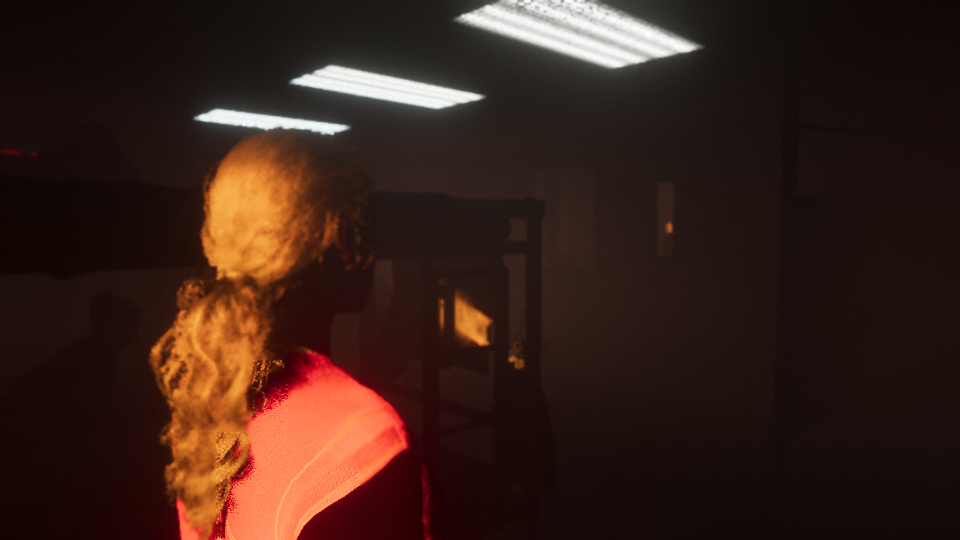
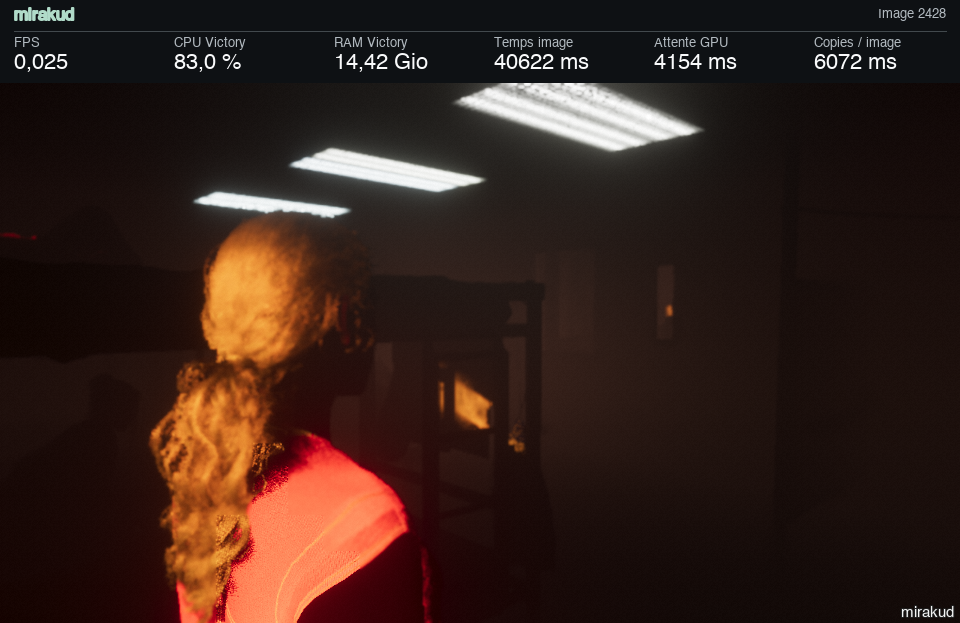
Afficher le HUD et le filigrane sur les captures finales du Mac

diff --git a/tools/macos/watermark.py b/tools/macos/watermark.py
@@ -1,40 +1,142 @@
-"""Create a PNG display copy with a small mirakud signature. Requires Pillow 10.1+."""
+"""Export a final PNG with the Victory HUD above the game and the mirakud signature (Pillow 10+)."""
 import argparse
+from datetime import datetime, timezone
+import json
+import math
 from pathlib import Path
+import re
+from tempfile import TemporaryDirectory
 
 from PIL import Image, ImageChops, ImageDraw, ImageFont
 
 
-def watermark(source, output):
-    if source.resolve() == output.resolve():
+METRICS = (
+    ("FPS", "fps"), ("CPU Victory", "cpu_percent"), ("RAM Victory", "ram_mib"),
+    ("Temps image", "frame_ms"), ("Attente GPU", "gpu_ms"), ("Copies / image", "copy_ms"),
+)
+
+
+def metric_text(key, value):
+    """Use the same French units and precision as Readings in victory_perf_hud.swift."""
+    if type(value) not in (int, float) or not math.isfinite(value) or value < 0:
+        return "—"
+    if key == "fps":
+        if value == 0:
+            return "0"
+        if value < 0.001:
+            return "< 0,001"
+        decimals, unit = (3 if value < 0.1 else 2 if value < 1 else 1), ""
+    elif key == "cpu_percent":
+        decimals, unit = int(value < 100), " %"
+    elif key == "ram_mib":
+        value, decimals, unit = value / 1024, 2, " Gio"
+    else:
+        decimals, unit = int(value < 100), " ms"
+    return f"{value:.{decimals}f}{unit}".replace(".", ",")
+
+
+def _font(size):
+    try:
+        return ImageFont.load_default(size=size)
+    except TypeError:
+        # Pillow 10.0 bundled a bitmap font with no size argument or em dash.
+        for face in ("Helvetica.ttc", "DejaVuSans.ttf", "LiberationSans-Regular.ttf", "arial.ttf"):
+            try:
+                return ImageFont.truetype(face, size)
+            except OSError:
+                continue
+        raise OSError("A scalable sans-serif font or Pillow 10.1+ is needed for the capture HUD.")
+
+
+def _header(width, sample, frame):
+    # Match the charcoal, white and mint of the live AppKit overlay. Use the
+    # font bundled with Pillow so the same HUD can be rendered off the Mac.
+    scale = min(3, max(0.85, width / 960))
+    def px(n):
+        return round(n * scale)
+
+    cols = max(1, min(len(METRICS), width // px(135)))
+    rows = math.ceil(len(METRICS) / cols)
+    band = Image.new("RGB", (width, px(34 + 49 * rows)), (14, 17, 20))
+    draw = ImageDraw.Draw(band)
+    title = _font(px(17))
+    label = _font(px(13))
+    reading = _font(px(22))
+    mint, muted, white = (176, 219, 201), (177, 185, 191), (249, 250, 251)
+    draw.text((px(14), px(6)), "mirakud", font=title, fill=mint, stroke_width=1, stroke_fill=mint)
+    stamp = ""
+    if frame is not None:
+        stamp = f"Image {frame}"
+    elif type(updated := sample.get("updated")) in (int, float) and 0 <= updated < 253402300799:
+        stamp = datetime.fromtimestamp(updated, timezone.utc).strftime("%H:%M:%S UTC")
+    if stamp:
+        draw.text((width - px(14), px(7)), stamp, anchor="ra", font=label, fill=muted)
+    draw.line((px(14), px(31), width - px(14), px(31)), fill=(66, 73, 77))
+    for i, (caption, key) in enumerate(METRICS):
+        row, col = divmod(i, cols)
+        x, y = width * col // cols + px(14), px(36 + 49 * row)
+        draw.text((x, y), caption, font=label, fill=muted)
+        draw.text((x, y + px(16)), metric_text(key, sample.get(key)), font=reading, fill=white)
+    return band
+
+
+def _export(source, output, final, sample=None, frame=None):
+    source, output = Path(source), Path(output)
+    if source.resolve() == output.resolve() or output.exists() and source.samefile(output):
         raise ValueError("Choose a separate output file to preserve the source.")
+    if sample is not None and not isinstance(sample, dict):
+        raise ValueError("The HUD sample must be a JSON object.")
+    if frame is None and (match := re.fullmatch(r"frame-(\d+)", source.stem)):
+        frame = int(match[1])
     with Image.open(source) as image:
-        baseline = image.convert("RGB")
-    # No resize or JPEG recompression. Only the glyphs and their outline change pixels.
-    display = baseline.copy()
-    display.info.clear()
-    width, height = display.size
+        color_profile = image.info.get("icc_profile")
+        baseline = image.convert("RGBA" if "A" in image.getbands() else "RGB")
+
+    scene = baseline.copy()
+    width, height = scene.size
     size = max(12, min(21, height // 34))
     margin = max(5, height // 80)
-    font = ImageFont.load_default(size=size)
-    draw = ImageDraw.Draw(display)
-    text = "mirakud"
+    draw = ImageDraw.Draw(scene)
     position = (width - margin, height - margin)
-    options = dict(font=font, anchor="rb", stroke_width=1)
-    bounds = draw.textbbox(position, text, **options)
-    draw.text(position, text, fill=(244, 244, 244), stroke_fill=(32, 32, 32), **options)
-    display.save(output, format="PNG", compress_level=7)
-    with Image.open(output) as saved:
-        changed = ImageChops.difference(baseline, saved.convert("RGB")).getbbox()
-    if changed is None or any((changed[0] < bounds[0], changed[1] < bounds[1],
-                               changed[2] > bounds[2], changed[3] > bounds[3])):
-        raise ValueError("The output does not preserve pixels outside the signature.")
-    return changed
+    options = dict(font=_font(size), anchor="rb", stroke_width=1)
+    draw.text(position, "mirakud", fill=(244, 244, 244), stroke_fill=(32, 32, 32), **options)
+    if final:
+        band = _header(max(144, width), sample or {}, frame)
+        display = Image.new(scene.mode, (band.width, band.height + height), (14, 17, 20))
+        display.paste(band, (0, 0))
+        display.paste(scene, (0, band.height))
+    else:
+        display = scene
+
+    display.info.clear()
+    with TemporaryDirectory(dir=output.parent) as tmp:
+        staged = Path(tmp) / "image.png"
+        display.save(staged, format="PNG", compress_level=7, icc_profile=color_profile)
+        staged.replace(output)
+
+
+def export_final(source, output, sample=None, frame=None):
+    """Write the display PNG. Missing measurements are shown as dashes."""
+    _export(source, output, True, sample, frame)
+
+
+def watermark(source, output):
+    """Keep the signature-only API for existing callers and return its changed bounds."""
+    _export(source, output, False)
+    with Image.open(source) as original, Image.open(output) as signed:
+        return ImageChops.difference(original.convert("RGB"), signed.convert("RGB")).getbbox()
 
 
 if __name__ == "__main__":
     parser = argparse.ArgumentParser(description=__doc__)
     parser.add_argument("source", type=Path)
     parser.add_argument("output", type=Path)
+    parser.add_argument("--hud", type=Path, help="HUD sample in the format of hud.json")
+    parser.add_argument("--frame", type=int, help="presentation number, inferred from frame-N.png when possible")
+    parser.add_argument("--signature-only", action="store_true", help="export the historical signature-only layout")
     args = parser.parse_args()
-    print(watermark(args.source, args.output))
+    if args.signature_only:
+        watermark(args.source, args.output)
+    else:
+        sample = json.loads(args.hud.read_text()) if args.hud else None
+        export_final(args.source, args.output, sample, args.frame)

diff --git a/tools/macos/final_captures.py b/tools/macos/final_captures.py
@@ -1,0 +1,79 @@
+"""Export the completed game plane independently of the renderer and its HUD."""
+from bisect import bisect_left
+import json
+from pathlib import Path
+import re
+import sys
+from threading import Event, Thread
+import time
+
+FRAME = re.compile(r"frame-(\d+)\.png")
+HISTORY = "hud-mesures.jsonl"
+
+
+class FinalCaptures:
+    def __init__(self, run):
+        self.run = Path(run)
+        self.stop = Event()
+        self.worker = Thread(target=self.collect, name="victory-final-captures", daemon=True)
+        self.worker.start()
+
+    def close(self):
+        self.stop.set()
+        self.worker.join()
+
+    def collect(self):
+        try:
+            from watermark import export_final
+        except ImportError as error:
+            print(f"Export des captures finales indisponible ({error}). Installer Pillow avec le Python du lanceur.", file=sys.stderr)
+            return
+        raw = self.run / "captures"
+        output = raw / "finales"
+        samples, timestamps = [], []
+        history_pos = 0
+        errors = set()
+        while True:
+            finished = self.stop.is_set()
+            try:
+                with (self.run / HISTORY).open("rb") as history:
+                    history.seek(history_pos)
+                    for row in history:
+                        if not row.endswith(b"\n"):
+                            break
+                        history_pos += len(row)
+                        sample = json.loads(row)
+                        if sample.get("game_pid") and (not timestamps or sample["updated"] >= timestamps[-1]):
+                            timestamps.append(sample["updated"])
+                            samples.append(sample)
+            except FileNotFoundError:
+                pass
+            if raw.is_dir():
+                output.mkdir(exist_ok=True)
+                for src in raw.iterdir():
+                    match = FRAME.fullmatch(src.name)
+                    if not match:
+                        continue
+                    try:
+                        stamp = src.stat().st_mtime
+                        dst = output / src.name
+                        if dst.is_file() and dst.stat().st_mtime >= stamp:
+                            continue
+                        # The HUD records once per second. Include the sample
+                        # on the other side of the PNG timestamp if available.
+                        if not finished and time.time() < stamp + 1.1:
+                            continue
+                        i = bisect_left(timestamps, stamp)
+                        nearby = range(max(0, i - 1), min(len(timestamps), i + 1))
+                        best = min(nearby, key=lambda j: abs(timestamps[j] - stamp), default=None)
+                        sample = samples[best] if best is not None and abs(timestamps[best] - stamp) <= 3 else None
+                        export_final(src, dst, sample, int(match[1]))
+                    except (OSError, ValueError) as error:
+                        # A PNG can be visible before the final bytes land.
+                        # Retry on the next pass and report a persistent error.
+                        if finished or src in errors:
+                            print(f"Export de {src.name} en attente ({error})", file=sys.stderr)
+                        errors.add(src)
+            if finished:
+                return
+            self.stop.wait(1)

diff --git a/tools/macos/victory_perf_feed.py b/tools/macos/victory_perf_feed.py
@@ -142,14 +142,17 @@ class PerformanceHUD:
                         measured = time.monotonic()
                         break
                 recent = measured is not None and time.monotonic() - measured <= max(20, 3 * frame_ms / 1000)
-                write_state(self.path, {
+                sample = {
                     "game_pid": pid, "updated": time.time(),
                     "fps": 1000 / frame_ms if recent else None, "frame_ms": frame_ms if recent else None,
                     "gpu_ms": gpu_ms if recent else None, "copy_ms": copy_ms if recent else None,
                     "cpu_percent": cpu_percent,
                     "ram_mib": mem["footprint_bytes"] / (1 << 20) if mem else None,
                     "wired_mib": wired_memory(self.run / "telemetry.jsonl"),
-                })
+                }
+                write_state(self.path, sample)
+                with (self.run / "hud-mesures.jsonl").open("a", encoding="utf-8") as history:
+                    history.write(json.dumps(sample, separators=(",", ":")) + "\n")
                 self.stop.wait(1)
 
     def close(self):

diff --git a/tools/macos/run.py b/tools/macos/run.py
@@ -352,6 +352,8 @@ def run_profile(resources):
     print(run, flush=True)
     with (run / "console.txt").open("wb") as console:
         monitor = subprocess.Popen(command, env=env, stdout=console, stderr=subprocess.STDOUT, start_new_session=True)
+        from final_captures import FinalCaptures
+        captures = FinalCaptures(run)
         hud = None
 
         def stop_monitor(_signum, _frame):
@@ -368,6 +370,7 @@ def run_profile(resources):
         finally:
             if hud is not None:
                 hud.close()
+            captures.close()
             for sig, handler in handlers.items():
                 signal.signal(sig, handler)
     record["exit_code"] = rc

diff --git a/README.md b/README.md
@@ -8,6 +8,8 @@
 | --- | --- |
 | [![Profil du personnage devant la cour au soleil couchant](docs/macos/m2-series-s-seuil.png)](docs/macos/m2-series-s-seuil.png) | [![Vue intérieure avec trois plafonniers, les lits et la porte de la cellule](docs/macos/m2-series-s-cellule.png)](docs/macos/m2-series-s-cellule.png) |
 
+Le bandeau au-dessus de chaque image indique les FPS, le CPU et la RAM de Victory, le temps par image, l’attente GPU et le temps de copie. Les relevés CPU et RAM se situent à moins de 0,75 seconde des captures. Les chronos de la cour et du seuil viennent du dernier relevé du HUD. Ceux de la cellule incluent le prélèvement de diagnostic.
+
 Le lanceur **Series S sur Mac** utilise la DualSense physique via GameController. Un appui sur Croix a été mesuré à 127 ms sur macOS et 131 ms dans le panneau de Victory. Le panneau suit aussi les boutons quand le jeu perd le focus. [Lanceur Series S](tools/run_victory_series_s_mac.command)
 
 La session photographiée a chargé **2 319 traductions en 143 ms**, puis **682 en 42 ms**. Quatre travailleurs préparent les pipelines graphiques. Le moteur charge en priorité les textures des matériaux dessinés. Les trois néons sont visibles dans la cellule, dont le fond et les lits restent sombres. Un prélèvement de 329 cibles a occupé une trame de 40,6 secondes et le jeu a interrompu cette session. [Mesures et empreintes](docs/macos/013918-series-s-m2.json)
@@ -168,6 +170,8 @@ Le dossier `SHADER_STORE` contient les traductions privées pour la version du t
 Le profil mesuré utilisait une copie de Sikarugir équipée d’un pilote CoreAudio recompilé depuis Wine 10.0. Ce correctif permet aux minuteries des flux audio à l’arrêt de dormir jusqu’à leur reprise. Il s’applique à la racine des sources Wine 10.0 avec `patch -p1 < wine-10.0-coreaudio.diff.txt`. Le pilote conserve la licence LGPL-2.1-or-later. [Correctif source](docs/macos/wine-10.0-coreaudio.diff.txt) · [Licence Wine](docs/macos/wine-LGPL-2.1.txt)
 
 Retirer `--preview` pour exécuter. `--data` copie les données privées d’un profil dans la nouvelle session. Les options `--shader-pack` et `--pipeline-manifest` acceptent des caches et priorités générés localement pour une version compatible. Au choix de profil du jeu, confirmer Player avec Entrée. Chaque session enregistre le journal et la télémétrie. Avec les profils de rue et de cinématique, le moniteur arrête le groupe de processus à 9 216 Mio câblés ou dès l’erreur Metal de mémoire insuffisante. Le lanceur reprend les réglages de base de la rue, tandis que les profils, priorités spécifiques et entrées utilisées lors du développement restent propres aux essais.
+
+Avec Pillow 10 ou ultérieur installé dans le Python du lanceur, chaque capture de jeu produit automatiquement un PNG avec le bandeau de mesures en haut et le filigrane « mirakud » en bas à droite. Le dossier `captures/finales/` de la session contient les images à partager. Les originaux restent dans `captures/`. Un tiret indique une mesure indisponible. [Outil d’export](tools/macos/watermark.py)
 
 Pour reprendre les réglages de 011924, ajoutez `--intro-profile --data "$VICTORY_DATA"` avec votre dossier de profil. Activez `--shader-ab` pour isoler des paires graphiques dans le HUD et `--capture-shader-misses` pour enregistrer les conteneurs manquants dans le sous-dossier `shader-misses` de la session. Au lancement suivant, `--shader-overlay` accepte le fichier VSP1 préparé avec ces traductions. [Préparer et vérifier ses shaders sur Apple Silicon](tools/shaders/prepare-arm64/USAGE.md)
 
